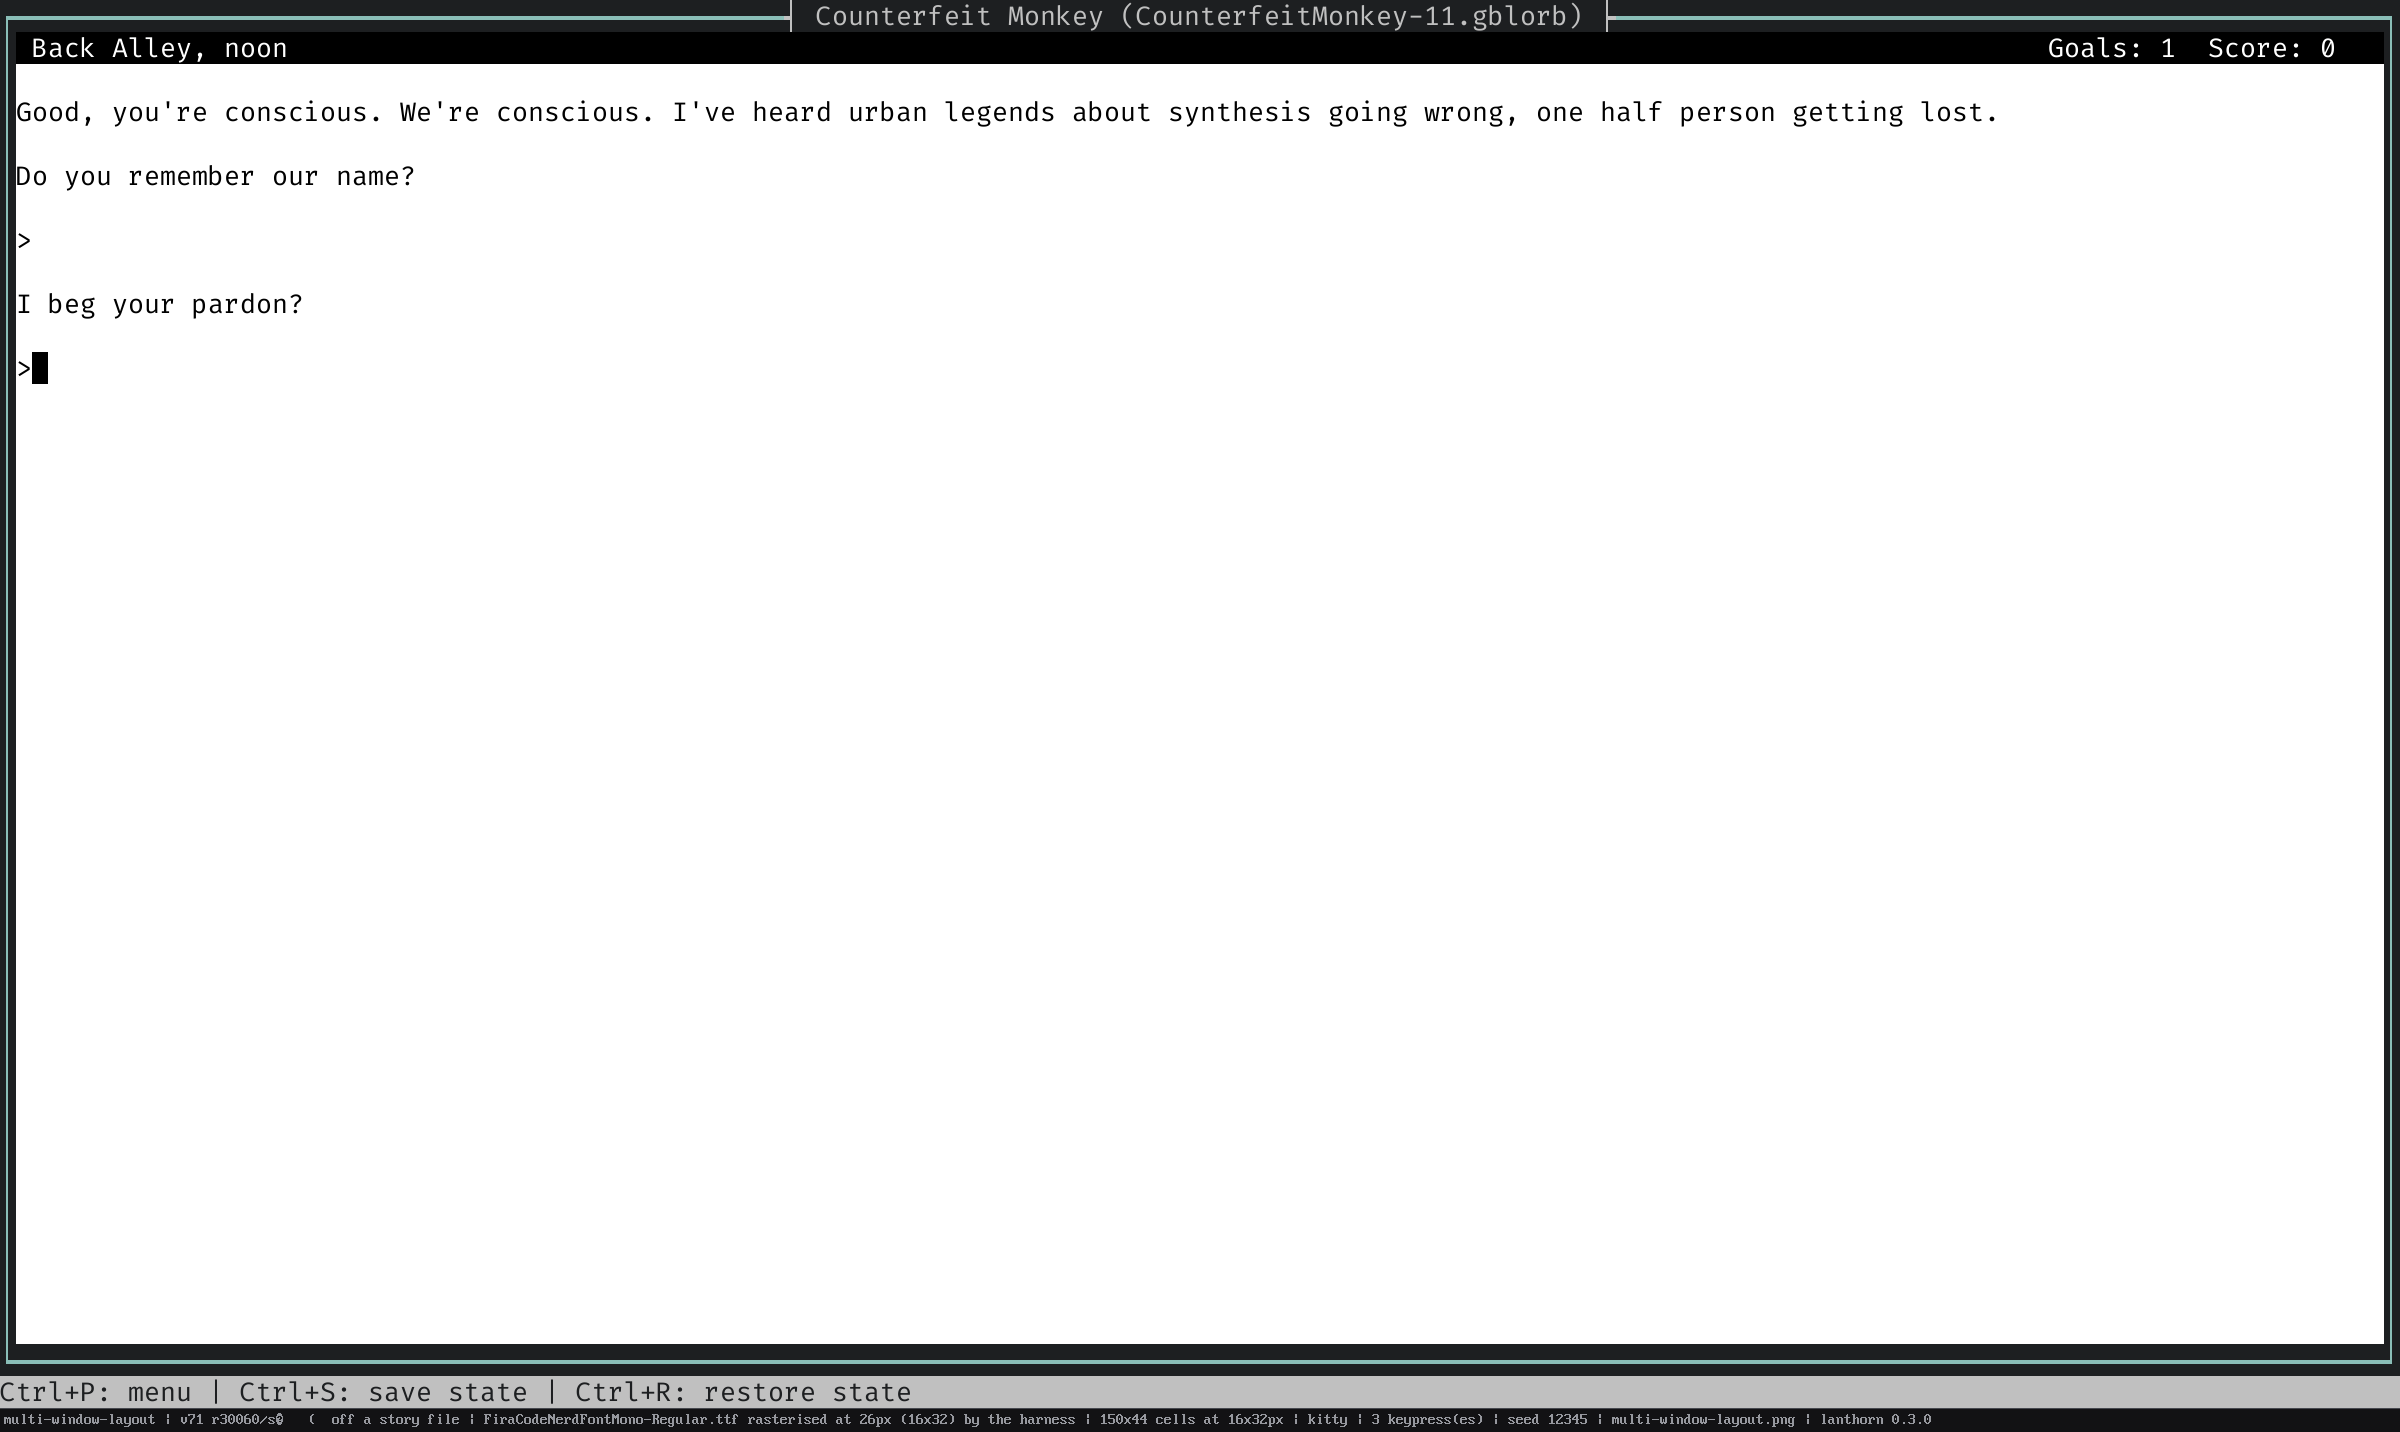
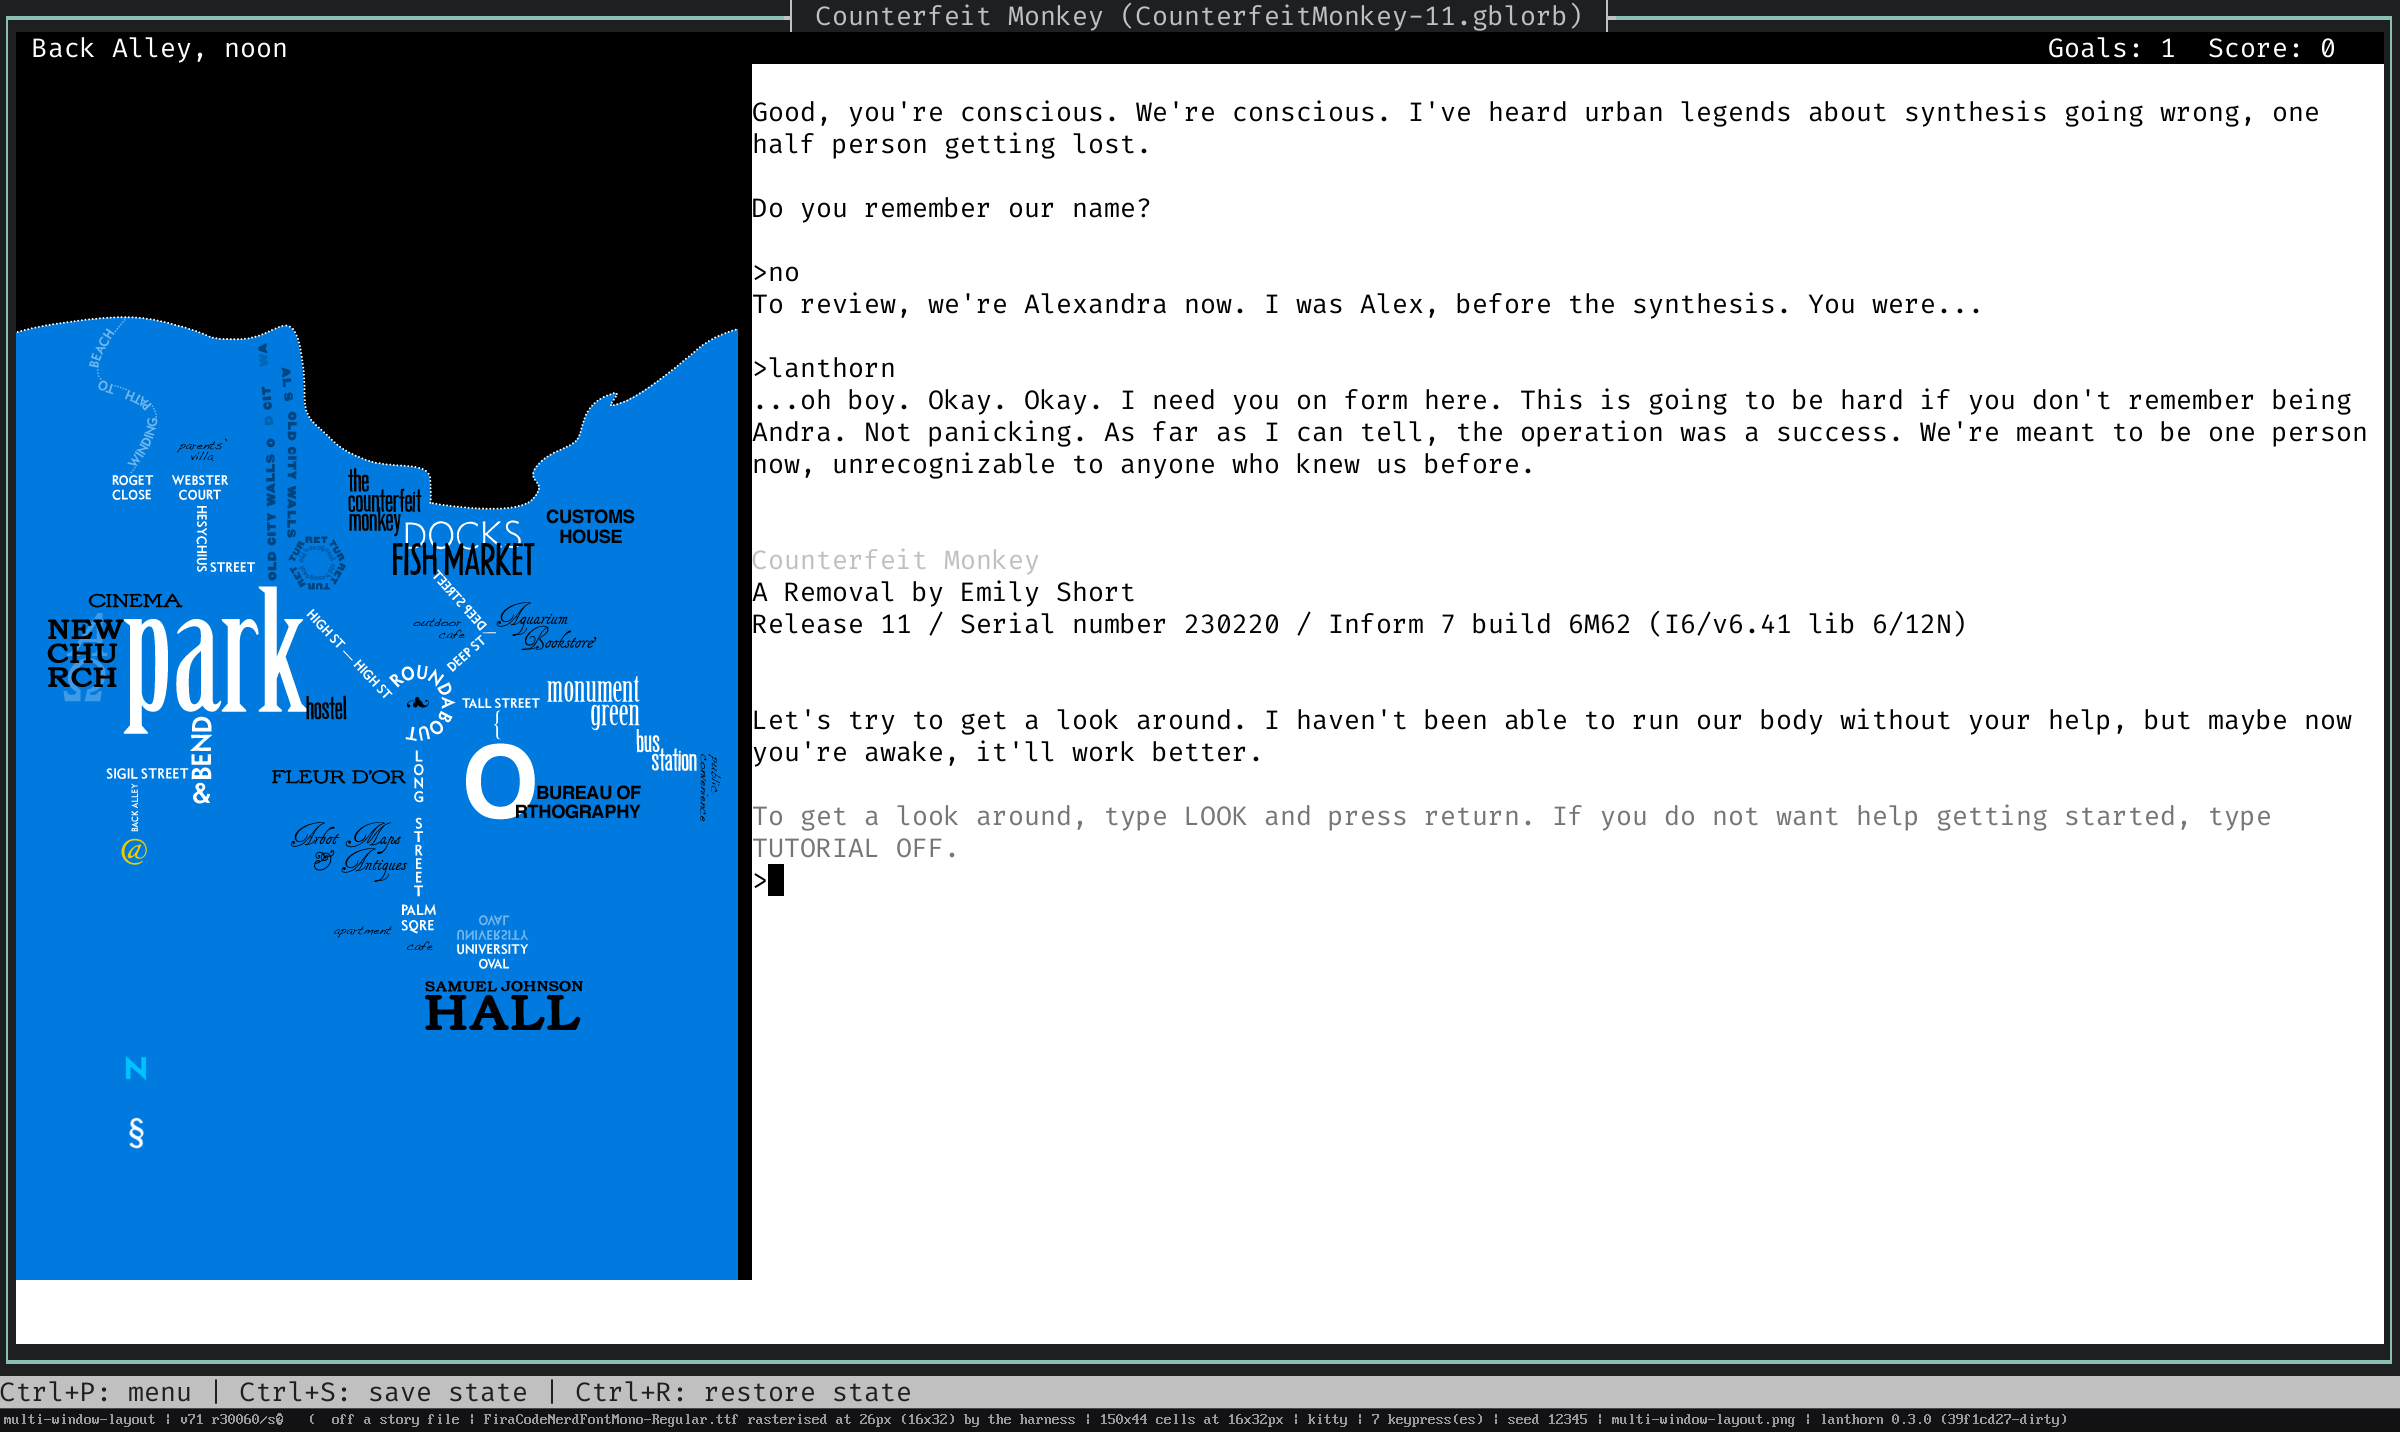
docs(gallery): Counterfeit Monkey reaches its own graphics, and Zork Zero's Macintosh press joins the README
**Counterfeit Monkey was a still of an intro.** Three questions stand between the
launch and the game drawing anything — "Can you hear me?", a follow-up, and "Do
you remember our name?" — and the old key spec answered only the first, so the
frame captioned "a multi-window Glk layout" was a wall of text with the graphics
window still empty. Answering all three reaches the city map the shot exists to
show. `expect_art_cells = 100` now fails it if it ever stops getting there, rather
than quietly going back to a text-only frame.

**Zork Zero's Macintosh press was already in the manifest and not in the README.**
`zork0-mac-mono` boots the real Macintosh floppy (r296/s881019) and draws its
dithered stone columns, compass rose and drop-cap on that machine's own 7x15 cell
at a whole 3x, which is the black-and-white press this release taught lanthorn to
read. It sits next to the hybrid Zork Zero so the two renditions read as a pair.

**And a note in CLAUDE.md about what this pass cost.** Two rules, both learned the
expensive way here: a change that compiles nothing needs no gate — the full sweep
is minutes to verify a TOML file that one 0.13s suite already covers — and verify
BEFORE committing, because `buildinfo`'s build script declares
`rerun-if-changed=<git-dir>/HEAD`, so every commit invalidates it and relinks all
fourteen of `app`'s test binaries whatever changed. That relink is the price of a
version string carrying its own short hash, which is worth paying once and not
[…]

diff --git a/CLAUDE.md b/CLAUDE.md
@@ -52,6 +52,24 @@ of `app` near the memory ceiling.
   module path still carries the old filename.
 - **Before you PUSH**, run the full gate below. Before the push that makes commits
   public, not before every commit.
+- **A change that compiles nothing needs no gate.** README prose, a doc under
+  `docs/`, a committed PNG, a `gallery.toml` key spec — none of it is Rust, and
+  the only question worth asking is whether the one suite that READS it still
+  passes (`cargo nextest run -p app gallery_manifest` is 23 cases in 0.13s warm).
+  The full gate exists for the two things that have ever justified it — a semantic
+  merge conflict between parallel lanes, and the shared-process palette races —
+  and a line of README prose cannot reach either. Running it anyway costs minutes
+  per iteration and buys nothing, which is easy to do a dozen times in a
+  documentation pass without noticing.
+- **VERIFY BEFORE YOU COMMIT, not after** — `crates/buildinfo/build.rs` shells out
+  to git and declares `cargo:rerun-if-changed=<git-dir>/HEAD`, so **every commit
+  invalidates `buildinfo`**, and `app` depends on it: the next build relinks all
+  fourteen of `app`'s test group binaries whatever you changed. Going from a dirty
+  tree to a clean one does it too, because the `-dirty` suffix is part of the same
+  string. That is the price of a version that carries its own short hash (which is
+  what makes a gallery frame and a bug report self-identifying, so it is worth
+  paying) — but pay it once, by running what you need BEFORE the commit rather
+  than triggering a relink with the commit and then testing.
 - **GitHub Actions runs `cargo test` on every push** and is the real backstop — and
   the only thing that can see a shared-process race, which per-test-process nextest
   structurally cannot (see the palette section below).

diff --git a/README.md b/README.md
@@ -46,6 +46,8 @@ roof; one engine-agnostic mapper that charts them all.
 
 ![Zork Zero with hybrid rendering mode](docs/zork-zero.png)
 
+![Zork Zero off its Macintosh floppy: the black-and-white press, its dithered stone columns and compass rose drawn on the Macintosh's own 7x15 cell](docs/zork-zero-mac.png)
+
 ![Arthur's Amiga floppy drawn in its own proportional typeface, at the ten-pixel line the machine used](docs/native-font.png)
 
 ![Frobozz Magic VideoPoker: a v6 game's painted card table, banner and clickable menu, drawn inside its own illustrated frame](docs/frobozz-poker.png)
